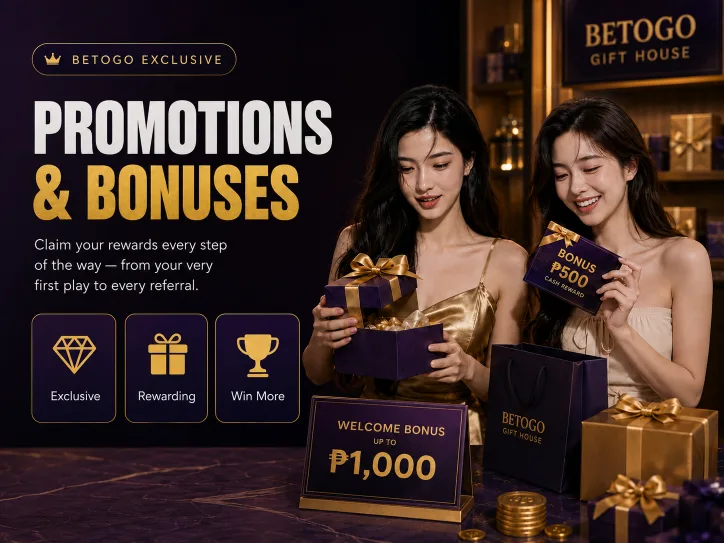
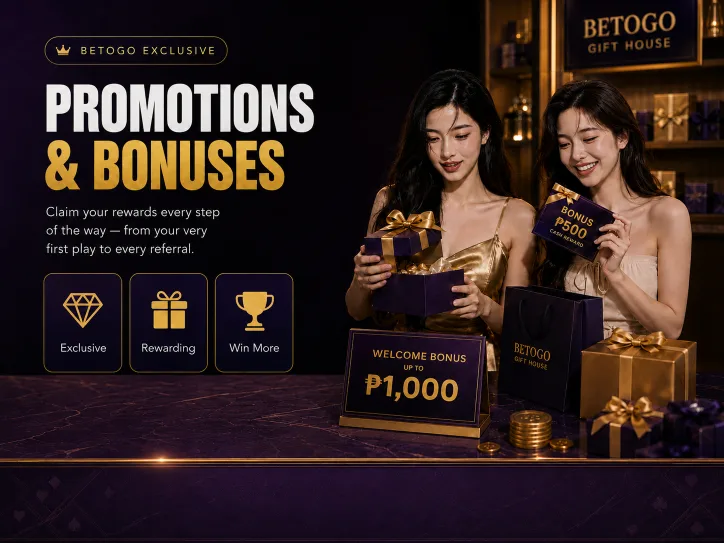
更新优惠页头图和中奖条位置

diff --git a/apps/web-tma/src/views/BonusesPage.tsx b/apps/web-tma/src/views/BonusesPage.tsx
@@ -129,28 +129,27 @@ export default function BonusesPage({ promoFilter, onOpenWallet, onOpenTeam }: P
     <div className="page-main">
       <div className="relative overflow-hidden bg-[#080b14]">
         <img src={bonusesHero} alt="" className="block w-full h-auto" />
-      </div>
-
-      <div className="mx-4 mt-3 bg-secondary rounded-xl px-3 py-2 flex items-center gap-2 overflow-hidden">
-        <div className="flex-shrink-0 flex items-center gap-1 text-primary">
-          <Trophy size={12} />
-          <span className="text-[10px] font-black uppercase whitespace-nowrap">{t('bonuses.recentClaims')}</span>
-        </div>
-        <div className="w-px h-3 bg-border flex-shrink-0" />
-        <div className="overflow-hidden flex-1">
-          <div className="flex w-max animate-marquee whitespace-nowrap" style={{ animationDuration: '92s' }}>
-            {[0, 1].map((group) => (
-              <div key={group} className="flex flex-shrink-0 gap-5 pr-5">
-                {bonusWinners.map((w, i) => (
-                  <span key={`${group}-${i}`} className="text-[11px] flex-shrink-0">
-                    <span className="text-primary font-bold">{w.name}</span>
-                    <span className="text-white/50"> {t('common.claimed')} </span>
-                    <span className="text-emerald-400 font-bold">{w.amount}</span>
-                    <span className="text-white/30"> · {w.promo}</span>
-                  </span>
-                ))}
-              </div>
-            ))}
+        <div className="absolute inset-x-4 bottom-[8%] z-10 bg-secondary/95 rounded-xl px-3 py-2 flex items-center gap-2 overflow-hidden shadow-[0_8px_24px_rgba(0,0,0,0.35)]">
+          <div className="flex-shrink-0 flex items-center gap-1 text-primary">
+            <Trophy size={12} />
+            <span className="text-[10px] font-black uppercase whitespace-nowrap">{t('bonuses.recentClaims')}</span>
+          </div>
+          <div className="w-px h-3 bg-border flex-shrink-0" />
+          <div className="overflow-hidden flex-1">
+            <div className="flex w-max animate-marquee whitespace-nowrap" style={{ animationDuration: '92s' }}>
+              {[0, 1].map((group) => (
+                <div key={group} className="flex flex-shrink-0 gap-5 pr-5">
+                  {bonusWinners.map((w, i) => (
+                    <span key={`${group}-${i}`} className="text-[11px] flex-shrink-0">
+                      <span className="text-primary font-bold">{w.name}</span>
+                      <span className="text-white/50"> {t('common.claimed')} </span>
+                      <span className="text-emerald-400 font-bold">{w.amount}</span>
+                      <span className="text-white/30"> · {w.promo}</span>
+                    </span>
+                  ))}
+                </div>
+              ))}
+            </div>
           </div>
         </div>
       </div>
